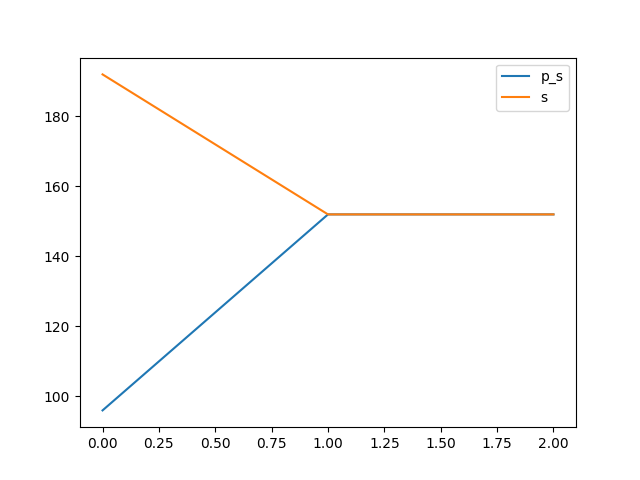
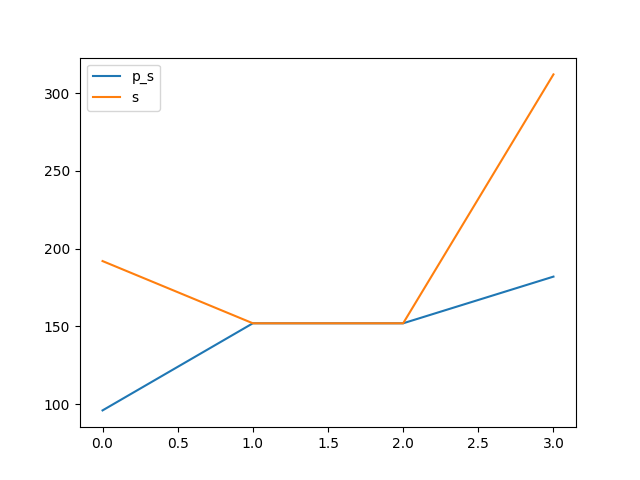
0x0003

diff --git a/benchmark.md b/benchmark.md
@@ -6,6 +6,8 @@ Synthesising 0x0001 pexact:152 r=3 exact:152 r=3
 
 Synthesising 0x0002 pexact:152 r=3 exact:152 r=3
 
+Synthesising 0x0003 pexact:182 r=4 exact:312 r=4
+
 ![image1](benchmark_r.png?)
 
 ![image2](benchmark_s.png?)
